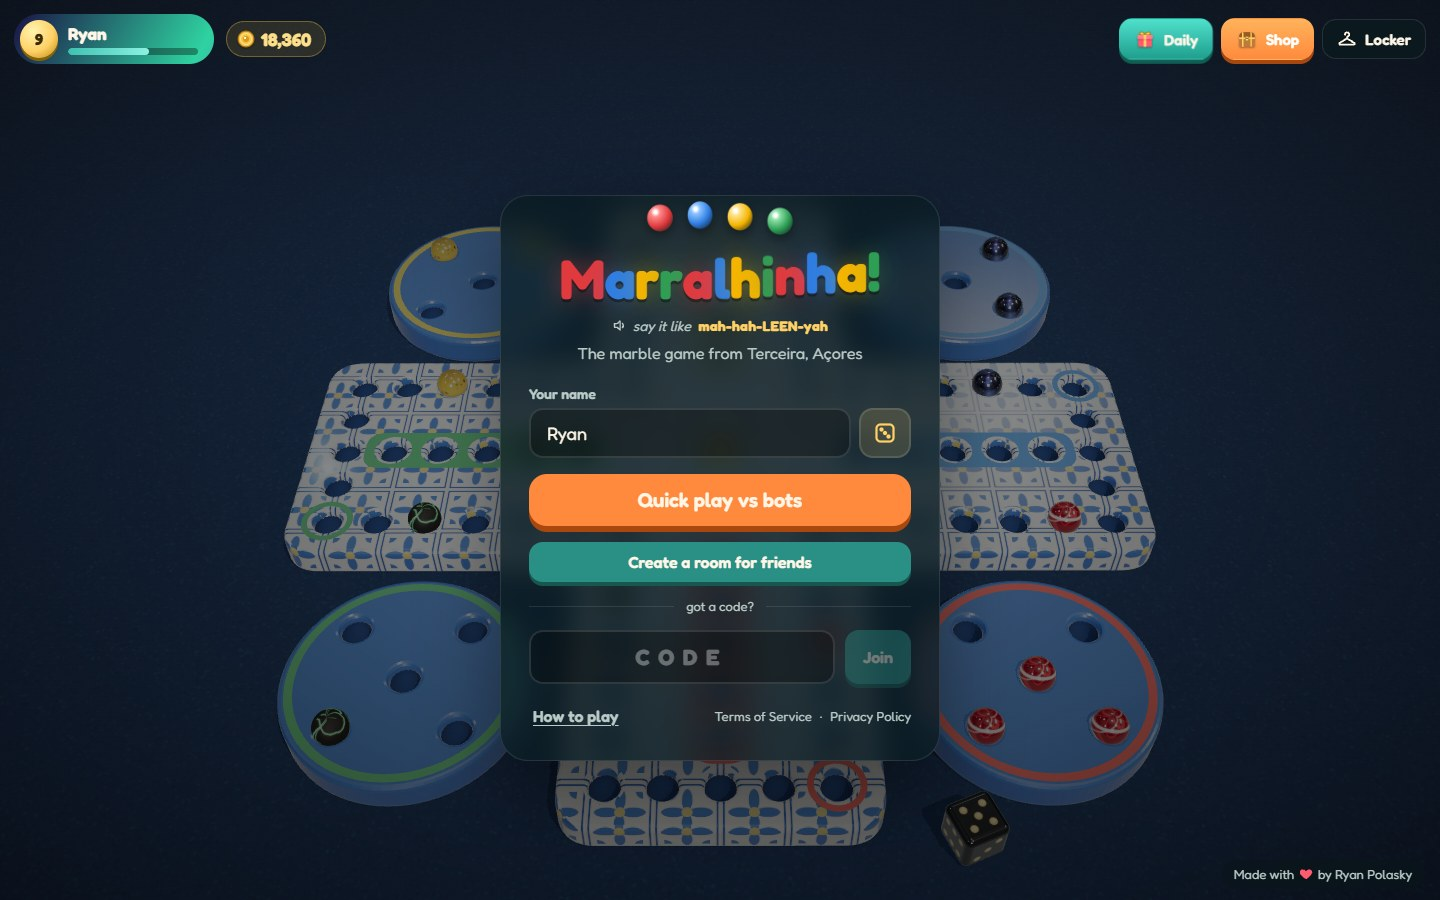
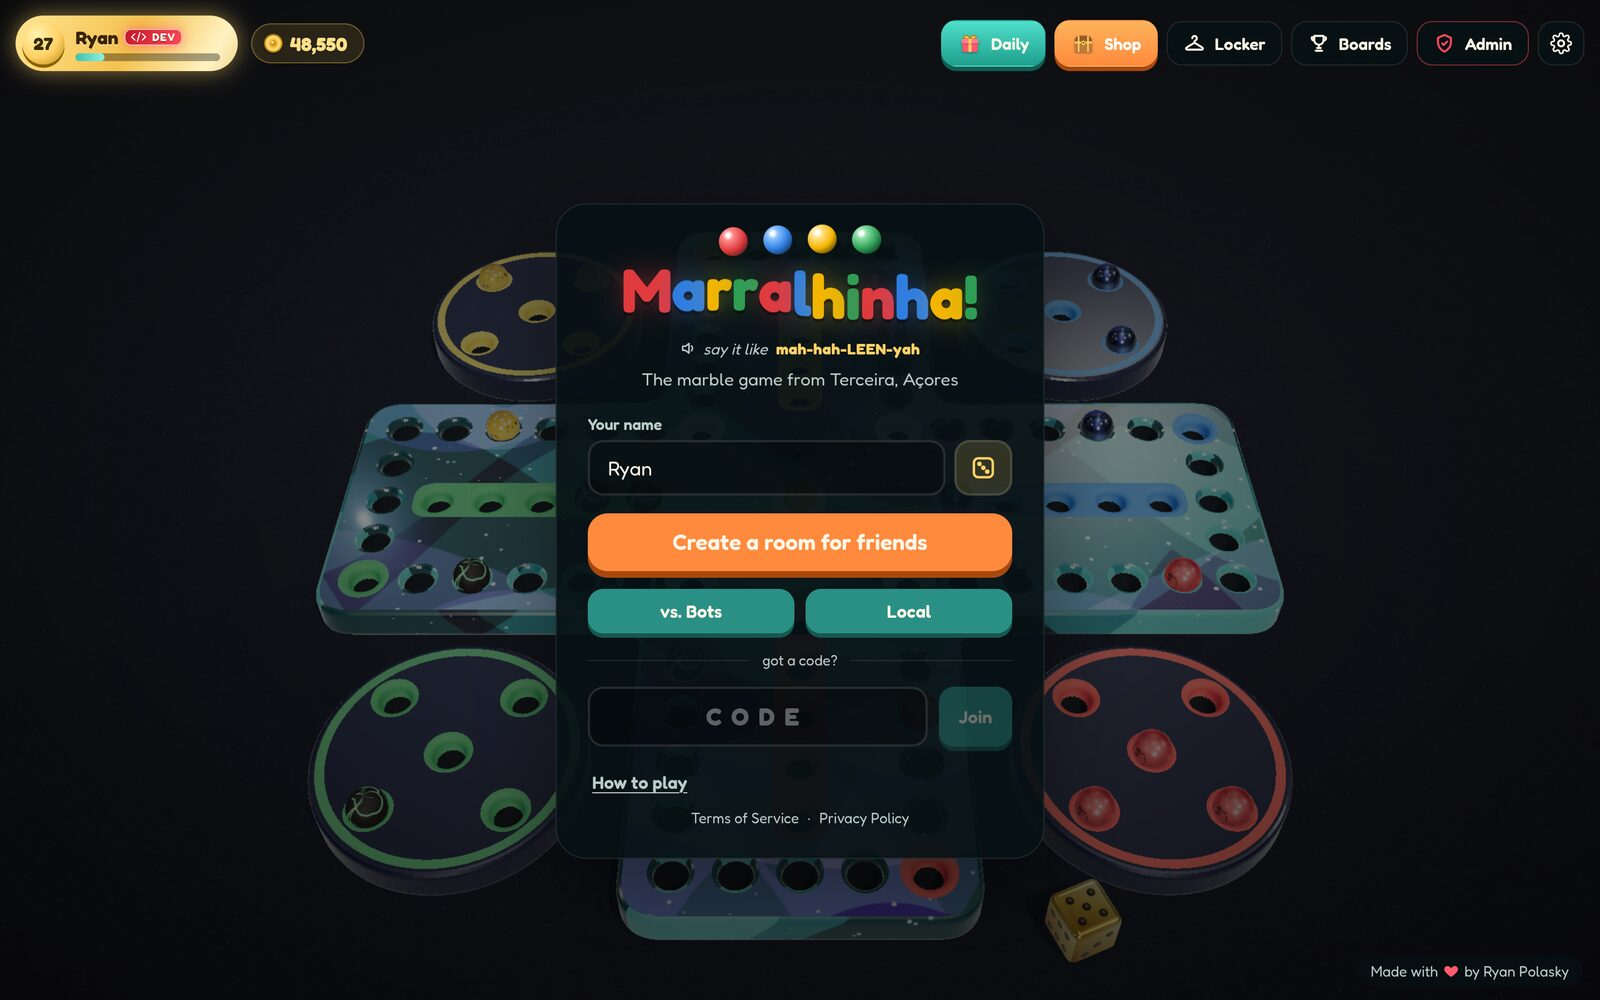
Refresh README with new screenshots and a play-first pitch

diff --git a/README.md b/README.md
@@ -1,45 +1,79 @@
-# Marralhinha Online
+<p align="center">
+  <a href="https://marralhinha.app"><img src="docs/media/cover.jpg" alt="Marralhinha! The classic marble game from the Açores, now online." /></a>
+</p>
 
-![Marralhinha Online](public/og-image.jpg)
+<p align="center">
+  <b>The marble game from Terceira, Açores. Now online, free, and one link away.</b><br />
+  2–4 players · friends or bots · browser, phone, or right inside Discord
+</p>
 
-**Play now at [marralhinha.app](https://marralhinha.app), or inside Discord as a voice channel Activity.**
+<p align="center">
+  <a href="https://marralhinha.app"><img src="https://img.shields.io/badge/Play_now-marralhinha.app-ff8a3d?style=for-the-badge" alt="Play now at marralhinha.app" /></a>
+  <a href="https://discord.gg/T4Efqprrd8"><img src="https://img.shields.io/badge/Discord-Join_the_table-5865F2?style=for-the-badge&logo=discord&logoColor=white" alt="Join the Discord" /></a>
+</p>
 
-Marralhinha (say it like "mah-hah-LEEN-yah") is the traditional marble board game from Terceira, in the Azores. Race your marbles around the board, capture your opponents', and take the shortcut through the center if you dare. This is it online: 2–4 players, with friends or bots, on desktop or mobile.
-Made by [Ryan Polasky](https://github.com/ryanpolasky).
+<p align="center">
+  <img src="docs/media/gameplay.jpg" alt="A Blitz game against bots" />
+</p>
 
-| Gameplay | Captures |
-| --- | --- |
-| ![Gameplay](docs/media/gameplay.jpg) | ![Capture](docs/media/capture.jpg) |
-| **Lootboxes** | **Locker** |
-| ![Legendary drop](docs/media/shop-legendary.jpg) | ![Locker](docs/media/locker.jpg) |
-| **Victory + rewards** | **Mobile** |
-| ![Win screen](docs/media/win.jpg) | <img src="docs/media/mobile-game.jpg" alt="Mobile" width="220" /> |
+Marralhinha (say it like "mah-hah-LEEN-yah") is what Terceira plays at the kitchen table: race your marbles around the cross, knock your friends back to their dish, and gamble on the shortcut through the center. It's easy enough to learn in one game and mean enough to start arguments in the second.
 
-## How to play
+## Why you'll like it
 
-- Race all your marbles around the board and into your colored home column. First player with every marble home wins.
-- Roll a 6 and you roll again. Anything else, and the turn passes.
-- Land on an opponent's marble to capture it and send it back to their dish.
-- On any brass corner except the last one before your home, a 1 or 6 jumps you into the center. From the center, another 1 or 6 drops you on that last corner, right by your home. The shortcut is worth chasing.
-- In the home column you need the exact roll to move: no overshooting, and no jumping your own marbles.
+- **No download, no signup.** Open [marralhinha.app](https://marralhinha.app) and you're already holding dice. Everyone gets a guest account instantly.
+- **Bring your people.** Share a four-letter room code, or launch it as a **Discord Activity** and everyone in the voice channel lands at the same table.
+- **Never short a player.** Bots fill empty seats, cover anyone who drops, and play your turns while you grab a snack.
+- **Plays great on a phone.** Same game, same rooms, desktop and mobile at one table.
+- **Looks good, plays fair.** Unlock marbles, boards, dice, nameplates, kill effects, move trails and emotes. All of it is cosmetic; nothing you can buy changes the game.
 
-**Controls:** Space rolls, Tab then Enter picks a move. Drag to spin the board, scroll to zoom, and ping a spot with H (G warns teammates) or right-click / long-press. The full rules live under the ? button in game.
+## Pick your poison
 
-## Modes
+| **Classic** | **Blitz** | **2v2 Teams** |
+| --- | --- | --- |
+| Five marbles on the full board. The real deal, full rewards. | Three marbles on a smaller board, about a third of the time. | Partners sit opposite, can't capture each other, and finish each other's runs. |
 
-- **Classic**: five marbles on the full board.
-- **Blitz**: three marbles on a smaller board, roughly a third of the time.
-- **2v2 teams**: with four players the host can team you up. Partners sit opposite each other, can't capture each other, and once your own marbles are home you move your partner's.
+Playing on one device? **Local** mode passes the dice around the couch.
 
-Short on humans? Bots fill empty seats, and they take over for players who drop (you get one reconnect grace period). Need a break mid-game? Hit the coffee cup and a bot plays your turns while you're away.
+## Screens
+
+<table>
+  <tr>
+    <td width="50%"><img src="docs/media/capture.jpg" alt="Capturing a marble" /><br /><b>Send them home.</b> Land on a marble and it goes right back to its dish.</td>
+    <td width="50%"><img src="docs/media/win.jpg" alt="Victory screen" /><br /><b>Win loud.</b> Confetti, Marbucks, and awards for whoever got bullied the most.</td>
+  </tr>
+  <tr>
+    <td width="50%"><img src="docs/media/locker.jpg" alt="The locker" /><br /><b>Show off.</b> 150+ marbles, boards, dice, nameplates, kill effects, trails and emotes to collect.</td>
+    <td width="50%"><img src="docs/media/shop.jpg" alt="The shop" /><br /><b>Crack chests.</b> Earn Marbucks by playing, then roll for something shiny.</td>
+  </tr>
+  <tr>
+    <td width="50%"><img src="docs/media/home.jpg" alt="Home screen" /><br /><b>Jump in.</b> Make a room for friends, fight the bots, or pass the dice around the couch.</td>
+    <td width="50%" align="center"><img src="docs/media/mobile-game.jpg" alt="Playing on a phone" width="48%" /> <img src="docs/media/mobile-home.jpg" alt="Home screen on a phone" width="48%" /><br /><b>Pocket-sized.</b> Built for touch from the start.</td>
+  </tr>
+</table>
+
+## How it plays
+
+1. **Get out.** Roll a 1 or a 6 to move a marble from your dish onto the board.
+2. **Race.** Run every marble around the cross and into your colored home column. First to bring them all home wins.
+3. **Roll a 6, roll again.** Anything else and the turn passes.
+4. **Capture.** Land on an opponent and send them back to their dish.
+5. **Take the shortcut.** From a brass corner (except the last one before your home), a 1 or 6 drops you into the center. Another 1 or 6 jumps you out to the corner right by your home.
+6. **Finish exact.** In the home column you need the exact roll. No overshooting, no hopping your own marbles.
+
+**Controls:** Space rolls, Tab then Enter picks a move. Drag to spin the board, scroll to zoom, and ping a spot with H (G warns teammates) or right-click / long-press. The full illustrated rules live under the **?** button in game.
 
 ## Progression
 
-Everyone gets a guest account instantly. Play games to earn **Marbucks**, then spend them on chests and daily featured cosmetics: marbles, boards, dice and nameplates. Profiles track match history, player cards and leaderboards, and in-game chat supports team messages and optional event logs.
+Play games to earn **Marbucks**, claim a daily reward, and spend them on chests and the rotating featured shop. Your profile tracks match history, stats and a player card, and the leaderboards keep score. Link Discord to carry your progress across devices.
 
-Everything is cosmetic. Marbucks can't be bought, so nothing purchasable changes the game. The optional one-time **Supporter Pack** helps fund the server and grants a badge plus four exclusive cosmetics. The seasonal **Halloween Pack** works the same way, but it is only sold during October. Link your Discord account to keep progress across devices and to launch the game as an Activity inside voice channels, where everyone in the channel lands at the same table automatically.
+Want to chip in for the server? The one-time **Supporter Pack** adds a badge and exclusive cosmetics, and the seasonal **Halloween Pack** is sold only in October. Only the look changes, never the gameplay. Marbucks can't be bought.
 
-## Community
+---
 
-- Support Discord: [discord.gg/T4Efqprrd8](https://discord.gg/T4Efqprrd8)
-- [Terms of Service](TERMS.md) · [Privacy Policy](PRIVACY.md)
+<p align="center">
+  <a href="https://marralhinha.app"><b>Play Marralhinha</b></a> ·
+  <a href="https://discord.gg/T4Efqprrd8">Discord</a> ·
+  <a href="TERMS.md">Terms</a> ·
+  <a href="PRIVACY.md">Privacy</a><br />
+  Made with ❤ by <a href="https://github.com/ryanpolasky">Ryan Polasky</a>
+</p>
